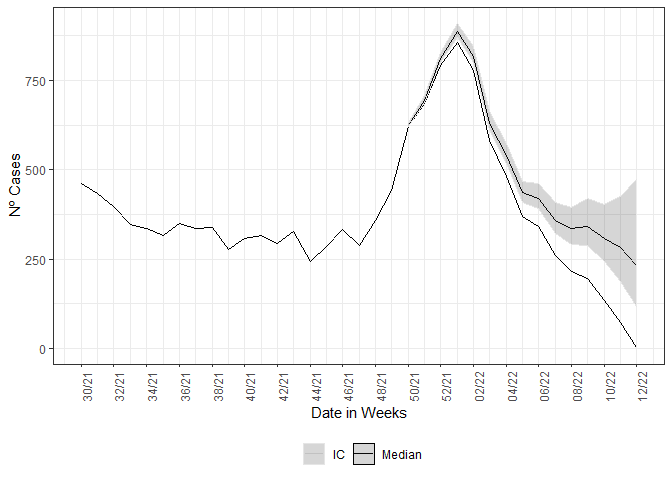
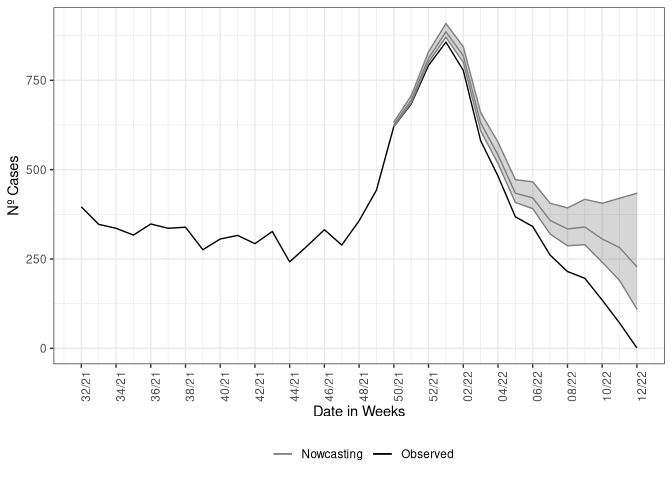
README recompiled

diff --git a/README.md b/README.md
@@ -2,21 +2,21 @@
 # nowcaster <a href='https://github.com/covid19br/nowcaster'><img src='man/figures/nowcaster.png' align="right" width="140" /></a> <a href='https://github.com/covid19br/nowcaster'><img src='man/figures/nowcaster_rev.png' align="right" width="140" /></a>
 
 `nowcaster` is a R package for “nowcasting” epidemiological time-series.
-Every single system of notification has a intrinsic delay, `nowcaster`
+Every single system of notification has an intrinsic delay, `nowcaster`
 can estimate how many counts of any epidemiological data of interest
-(*i.e.*, daily cases and deaths counts) by fitting a binomial negative
+(*i.e.*, daily cases and deaths counts) by fitting a negative binomial
 model to the time steps of delay between onset date of the event,
 (*i.e.*, date of first symptoms for cases or date of occurrence of
 death) and the date of report (*i.e.*, date of notification of the case
-or death)
+or death).
 
 `nowcaster` is based on the
 [`R-INLA`](https://becarioprecario.bitbucket.io/inla-gitbook/index.html)
 and
 [`INLA`](https://inla.r-inla-download.org/r-inla.org/doc/inla-manual/inla-manual.pdf)
 packages for “**I**ntegrated **N**ested **L**aplace **A**pproximation”
-algorithm to Bayesian inference. `INLA` is an alternative to others
-methods for Bayesian inference like **MCMC**, An introduction to `INLA`
+algorithm to Bayesian inference. `INLA` is a fast alternative to others
+methods for Bayesian inference like **MCMC**. An introduction to `INLA`
 can be found
 [here](https://becarioprecario.bitbucket.io/inla-gitbook/index.html).
 
@@ -42,8 +42,8 @@ library(nowcaster)
 
 When the package is loaded it disponibilize a LazyData file, `sariBH`,
 it is a annonymized records of Severe Acute Respiratory Illness notified
-in the city of Belo Horizonte, since March 2020. To load it basically
-write:
+in the city of Belo Horizonte, since March 2020 to April 2022. To load
+it basically write:
 
 ``` r
 data<-sragBH
@@ -64,49 +64,46 @@ head(data)
     ## 6 2020-04-07 2020-04-22          5        1     310620    74   70 - 79
 
 It is a data.frame with 7 variables and 65,404 observations. We will
-make use of only the first two columns, “DT\_SIN\_PRI” and “DT\_DIGITA”
-as well the column “Idade” to make age structured nowcasting.
+make use of only the first two columns, “DT_SIN_PRI” (date of onset
+symptoms) and “DT_DIGITA” (recording date) as well the column “Idade”
+(age in years) to make age structured nowcasting.
 
 ## Non-structured data
 
 Now we call the nowcasting function, it has by default the
 parametrization to take the data and estimate with a non-structured data
-form. The estimate fits a
-![NegBinom(\\lambda\_{\\tau}, t)](https://latex.codecogs.com/png.image?%5Cdpi%7B110%7D&space;%5Cbg_white&space;NegBinom%28%5Clambda_%7B%5Ctau%7D%2C%20t%29 "NegBinom(\lambda_{\tau}, t)")
-distribution to the cases count at time
-![t](https://latex.codecogs.com/png.image?%5Cdpi%7B110%7D&space;%5Cbg_white&space;t "t")
-with delay
-![\\lambda\_\\tau](https://latex.codecogs.com/png.image?%5Cdpi%7B110%7D&space;%5Cbg_white&space;%5Clambda_%5Ctau "\lambda_\tau").
-The distribution is parametrize through assuming a random effect to the
-delay
-![\\lambda\_\\tau](https://latex.codecogs.com/png.image?%5Cdpi%7B110%7D&space;%5Cbg_white&space;%5Clambda_%5Ctau "\lambda_\tau")
-distribution given by a
-![rw1](https://latex.codecogs.com/png.image?%5Cdpi%7B110%7D&space;%5Cbg_white&space;rw1 "rw1")
-and a random effect to the time
-![t](https://latex.codecogs.com/png.image?%5Cdpi%7B110%7D&space;%5Cbg_white&space;t "t")
-given by a
-![rw2](https://latex.codecogs.com/png.image?%5Cdpi%7B110%7D&space;%5Cbg_white&space;rw2 "rw2").
-So, the model is:
-
-![Y\_t \\sim  1 + rw2(t) + rw1(delay)](https://latex.codecogs.com/png.image?%5Cdpi%7B110%7D&space;%5Cbg_white&space;Y_t%20%5Csim%20%201%20%2B%20rw2%28t%29%20%2B%20rw1%28delay%29 "Y_t \sim  1 + rw2(t) + rw1(delay)")
+form. The estimate fits a negative binomial distribution,
+*N**e**g**B**i**n**o**m*(*λ*<sub>*t*, *d*</sub>,*ϕ*), to the cases count
+at time *t* with delay *d*, *ϕ* is the dispersion parameter. The rate
+*λ*<sub>*t*, *d*</sub> is then parameterized in a log-linear format by a
+constant term added by structured delay random effects and structured
+time random effects. Hence, the model isgiven by the following:
+*Y*<sub>*t*, *d*</sub> ∼ *N**e**g**B**i**n**o**m*(*λ*<sub>*t*, *d*</sub>,*ϕ*),  *t* = 1, 2, …, *T*,  *d* = 1, 2, …, *D*,
+log (*λ*<sub>*t*, *d*</sub>) = *α* + *β*<sub>*t*</sub> + *γ*<sub>*d*</sub>.
+where the intercept *α* follows is Gaussian distribution with a very
+large variance, *β*<sub>*t*</sub> is follows a second order random walk
+with precision *τ*<sub>*β*</sub>, *γ*<sub>*d*</sub> a first-order random
+walk with precision *τ*<sub>*γ*</sub>. The model is then completed by
+INLA default prior distributions for *ϕ*, *τ*<sub>*β*</sub>, and
+*τ*<sub>*γ*</sub>. See nbinom, rw1 and rw2 INLA help pages.
 
 The call of the function is straightforward, it simply needs a dataset
 as input, here the `LazyData` loaded in the namespace of the package.
 
 ``` r
-nowcasting_bh_no_age<-nowcasting_inla(dataset = data)
+nowcasting_bh_no_age <- nowcasting_inla(dataset = sragBH)
 head(nowcasting_bh_no_age$total)
 ```
 
-    ## # A tibble: 6 x 7
+    ## # A tibble: 6 × 7
     ##    Time dt_event   Median    LI    LS   LIb   LSb
     ##   <int> <date>      <dbl> <dbl> <dbl> <dbl> <dbl>
-    ## 1    17 2021-12-13    625  621   633    623   627
-    ## 2    18 2021-12-20    695  688.  707    692   699
-    ## 3    19 2021-12-27    812  800   830.   807   817
-    ## 4    20 2022-01-03    886  871   907    880   893
-    ## 5    21 2022-01-10    819  799.  844.   811   826
-    ## 6    22 2022-01-17    631  609   660    622   640
+    ## 1    17 2021-12-13    625   621  633    623   627
+    ## 2    18 2021-12-20    695   687  707    691   698
+    ## 3    19 2021-12-27    812   801  829    808   817
+    ## 4    20 2022-01-03    886   870  908    880   893
+    ## 5    21 2022-01-10    817   800  843.   811   826
+    ## 6    22 2022-01-17    631   609  660.   623   639
 
 This calling will return only the nowcasting estimate and its Confidence
 Interval (CI) for two different Credible interval, `LIb` and `LSb` are
@@ -119,11 +116,11 @@ returns on the third element of the output list the summarized data by
 week.
 
 ``` r
-nowcasting_bh_no_age <- nowcasting_inla(dataset = data, data.by.week = T)
+nowcasting_bh_no_age <- nowcasting_inla(dataset = sragBH, data.by.week = T)
 head(nowcasting_bh_no_age$dados)
 ```
 
-    ## # A tibble: 6 x 3
+    ## # A tibble: 6 × 3
     ##   DT_DIGITA  DT_SIN_PRI Delay
     ##   <date>     <date>     <dbl>
     ## 1 2021-01-04 2020-12-28     1
@@ -141,20 +138,20 @@ together.
 ``` r
 library(ggplot2)
 
-dados_by_week<-nowcasting_bh_no_age$dados %>% 
+dados_by_week <- nowcasting_bh_no_age$dados %>% 
   filter(DT_SIN_PRI >= (Sys.Date()-270)) %>% 
   group_by(DT_SIN_PRI) %>% 
   summarise(n = n())
 
 
 nowcasting_bh_no_age$total %>% 
-  ggplot(aes(x = dt_event, y = Median, col = 'Median'))+
+  ggplot(aes(x = dt_event, y = Median, col = 'Nowcasting')) +
+  geom_line(data = dados_by_week, aes(DT_SIN_PRI, y = n, col = 'Observed'))+
+  geom_ribbon(aes(ymin = LI, ymax = LS, col = NA), alpha = 0.2, show.legend = F)+
   geom_line()+
-  geom_line(data = dados_by_week, aes(DT_SIN_PRI, y = n))+
-  geom_ribbon(aes(ymin = LI, ymax = LS, col = 'IC'), alpha = 0.2)+
   theme_bw()+
-  theme(legend.position = "bottom", axis.text.x = element_text(angle = 90))+
-  scale_color_manual(values = c('grey90', 'black'), name = '')+
+  theme(legend.position = "bottom", axis.text.x = element_text(angle = 90)) +
+  scale_color_manual(values = c('grey50', 'black'), name = '')+
   scale_x_date(date_breaks = '2 weeks', date_labels = '%V/%y', name = 'Date in Weeks')+
   labs(x = '', y = 'Nº Cases')
 ```
@@ -163,49 +160,59 @@ nowcasting_bh_no_age$total %>%
 
 ## Structured data, Age
 
-For the structured data the `nowcasting_inla()` fits again a
-![NegBinom](https://latex.codecogs.com/png.image?%5Cdpi%7B110%7D&space;%5Cbg_white&space;NegBinom "NegBinom")
-distribution to the cases count at time
-![t](https://latex.codecogs.com/png.image?%5Cdpi%7B110%7D&space;%5Cbg_white&space;t "t")
-with delay
-![\\tau](https://latex.codecogs.com/png.image?%5Cdpi%7B110%7D&space;%5Cbg_white&space;%5Ctau "\tau").
+For the structured data the `nowcasting_inla()` fits again a Negative
+binomial distribution to the cases count at time *t* with delay *d*.
 Differently, from the non-structured case the model now gives random
 effects to the delay distribution and and time distribution by each of
-the age-class choosed by the user to break the data. The model has the
+the age-class chosen by the user to break the data. The model has the
 form now:
 
-![Y\_{t, Age} \\sim  1 + Age + rw2(t \| Age) + rw1(delay\|Age)](https://latex.codecogs.com/png.image?%5Cdpi%7B110%7D&space;%5Cbg_white&space;Y_%7Bt%2C%20Age%7D%20%5Csim%20%201%20%2B%20Age%20%2B%20rw2%28t%20%7C%20Age%29%20%2B%20rw1%28delay%7CAge%29 "Y_{t, Age} \sim  1 + Age + rw2(t | Age) + rw1(delay|Age)")
+$$Y\_{t,d,a} \\sim  NegBinom(\\lambda\_{t,d,a}, \\phi), \\quad t=1,2,\\ldots,T, \\quad d=1,2,\\ldots,D, $a=1,2,\\ldots,A$$
+$
+log (*λ*<sub>*t*, *d*, *a*</sub>) = *α*<sub>*a*</sub> + *β*<sub>*t*, *a*</sub> + *γ*<sub>*d*, *a*</sub>.
+where each age class, *a*, has an intercept *α*<sub>*a*</sub> following
+a Gaussian distribution with a very large variance, the time-age random
+effects, *β*<sub>*t*, *a*</sub>, follow a joint multivariate Gaussian
+distribution with a separable variance components an independent
+Gaussian term for the age classes with precision
+*τ*<sub>*a**g**e*, *β*</sub> and a second order random walk term for the
+time with precision *τ*<sub>*β*</sub>. Analogously, the delay-age random
+effects, *γ*<sub>*d*, *a*</sub>, follow a joint multivariate Gaussian
+distribution with a separable variance components an independent
+Gaussian term for the age classes with precision
+*τ*<sub>*a**g**e*, *γ*</sub> and a first order random walk term for the
+time with precision *τ*<sub>*γ*</sub>. The model is then completed by
+INLA default prior distributions for *ϕ*, *τ*<sub>*a**g**e*, *β*</sub>,
+*τ*<sub>*a**g**e*, *γ*</sub>, *τ*<sub>*β*</sub> and *τ*<sub>*γ*</sub>.
+See nbinom, iid, rw1 and rw2 INLA help pages.
 
-This new model gives to each of the age classes which the data was
-divide a model poundering the delay effects and time by each age class
-at time
-![t](https://latex.codecogs.com/png.image?%5Cdpi%7B110%7D&space;%5Cbg_white&space;t "t").
-Now the model needs a flag indicating which is the column on the dataset
-which will be used to break the data into age classes and which is the
-choosed option into which the age classes will be, this is given by the
-parameters `age_col` and `bins_age`. We pass three additional
-parameters, `data.by.week` to return the epidemiological curve out of
-window of action of nowcasting estimate and `return.age` to inform we
-desire a nowcasting result in two ways, the total aggregation estimate
-and the age-stratified estimate. The calling of the function has the
-following form:
+This new model corrects the delay taking into account the effects of age
+classes and the interactions of each age class between time and also
+delay. Now the model needs a flag indicating which is the column on the
+dataset which will be used to break the data into age classes and how
+the age classes will be split. This is given by the parameters `age_col`
+and `bins_age`. We pass three additional parameters, `data.by.week` to
+return the epidemiological curve out of window of action of nowcasting
+estimate and `return.age` to inform we desire a nowcasting result in two
+ways, the total aggregation estimate and the age-stratified estimate.
+The calling of the function has the following form:
 
 ``` r
-nowcasting_bh_age<-nowcasting_inla(dataset = data, 
+nowcasting_bh_age <- nowcasting_inla(dataset = sragBH, 
                                    bins_age = "10 years",
                                    data.by.week = T, 
                                    age_col = Idade)
 ```
 
 Each of the estimates returned by `nowcasting_inla` has the same form as
-in the non-structured case, on the nowcasting estimates it returns a
-data.frame with the Median and its CI by credibility of 50% (LIb and
-LSb) and 95% (LI and LS).
+in the non-structured case. On the nowcasting estimates, it returns a
+data.frame with the posterior edian and 50% and 95% credible intervals,
+(LIb and LSb) and (LI and LS) respectively.
 
 ``` r
 library(ggplot2)
 
-dados_by_week<-nowcasting_bh_age$dados %>% 
+dados_by_week <- nowcasting_bh_age$dados %>% 
   filter(DT_SIN_PRI >= (Sys.Date()-270)) %>% 
   group_by(DT_SIN_PRI) %>% 
   summarise(n = n())
@@ -231,11 +238,11 @@ We can compare the estimates by each of the strategies, we plot the two
 estimates together:
 
 ``` r
-nowcasting_bh_no_age$total$type<-"No Age structured"
-nowcasting_bh_age$total$type<-"Age structured"
+nowcasting_bh_no_age$total$type <- "No Age structured"
+nowcasting_bh_age$total$type <- "Age structured"
 
 
-nowcasting_bh_total<-nowcasting_bh_age$total %>% 
+nowcasting_bh_total <- nowcasting_bh_age$total %>% 
   full_join(nowcasting_bh_no_age$total)
 
 nowcasting_bh_total %>% 
@@ -263,53 +270,57 @@ is an empirical finding of this models.
 sessionInfo()
 ```
 
-    ## R version 4.1.2 (2021-11-01)
-    ## Platform: x86_64-w64-mingw32/x64 (64-bit)
-    ## Running under: Windows 10 x64 (build 19042)
+    ## R version 4.1.3 (2022-03-10)
+    ## Platform: x86_64-pc-linux-gnu (64-bit)
+    ## Running under: Manjaro Linux
     ## 
     ## Matrix products: default
+    ## BLAS:   /usr/lib/libblas.so.3.10.0
+    ## LAPACK: /usr/lib/liblapack.so.3.10.0
     ## 
     ## locale:
-    ## [1] LC_COLLATE=Portuguese_Brazil.1252  LC_CTYPE=Portuguese_Brazil.1252   
-    ## [3] LC_MONETARY=Portuguese_Brazil.1252 LC_NUMERIC=C                      
-    ## [5] LC_TIME=Portuguese_Brazil.1252    
+    ##  [1] LC_CTYPE=en_US.UTF-8       LC_NUMERIC=C              
+    ##  [3] LC_TIME=en_US.UTF-8        LC_COLLATE=en_US.UTF-8    
+    ##  [5] LC_MONETARY=en_US.UTF-8    LC_MESSAGES=en_US.UTF-8   
+    ##  [7] LC_PAPER=en_US.UTF-8       LC_NAME=C                 
+    ##  [9] LC_ADDRESS=C               LC_TELEPHONE=C            
+    ## [11] LC_MEASUREMENT=en_US.UTF-8 LC_IDENTIFICATION=C       
     ## 
     ## attached base packages:
     ## [1] parallel  stats     graphics  grDevices utils     datasets  methods  
     ## [8] base     
     ## 
     ## other attached packages:
-    ##  [1] INLA_21.11.22        sp_1.4-6             foreach_1.5.2       
-    ##  [4] Matrix_1.3-4         lubridate_1.8.0      forcats_0.5.1       
-    ##  [7] stringr_1.4.0        dplyr_1.0.8          purrr_0.3.4         
-    ## [10] readr_2.1.2          tidyr_1.2.0          tibble_3.1.6        
-    ## [13] ggplot2_3.3.5        tidyverse_1.3.1      nowcaster_0.0.0.9000
+    ##  [1] INLA_22.04.06   sp_1.4-6        foreach_1.5.2   Matrix_1.4-0   
+    ##  [5] lubridate_1.8.0 forcats_0.5.1   stringr_1.4.0   dplyr_1.0.9    
+    ##  [9] purrr_0.3.4     readr_2.1.2     tidyr_1.2.0     tibble_3.1.6   
+    ## [13] ggplot2_3.3.5   tidyverse_1.3.1 nowcaster_0.1.0
     ## 
     ## loaded via a namespace (and not attached):
     ##  [1] fs_1.5.2            usethis_2.1.5       devtools_2.4.3     
     ##  [4] httr_1.4.2          rprojroot_2.0.2     numDeriv_2016.8-1.1
-    ##  [7] tools_4.1.2         backports_1.4.1     utf8_1.2.2         
+    ##  [7] tools_4.1.3         backports_1.4.1     utf8_1.2.2         
     ## [10] R6_2.5.1            sn_2.0.1            DBI_1.1.2          
-    ## [13] colorspace_2.0-2    withr_2.5.0         mnormt_2.0.2       
+    ## [13] colorspace_2.0-3    withr_2.5.0         mnormt_2.0.2       
     ## [16] tidyselect_1.1.2    prettyunits_1.1.1   processx_3.5.2     
-    ## [19] curl_4.3.2          compiler_4.1.2      cli_3.1.1          
+    ## [19] curl_4.3.2          compiler_4.1.3      cli_3.3.0          
     ## [22] rvest_1.0.2         xml2_1.3.3          desc_1.4.0         
     ## [25] labeling_0.4.2      scales_1.1.1        callr_3.7.0        
-    ## [28] digest_0.6.29       rmarkdown_2.13      pkgconfig_2.0.3    
+    ## [28] digest_0.6.29       rmarkdown_2.11      pkgconfig_2.0.3    
     ## [31] htmltools_0.5.2     sessioninfo_1.2.2   highr_0.9          
-    ## [34] dbplyr_2.1.1        fastmap_1.1.0       rlang_1.0.1        
+    ## [34] dbplyr_2.1.1        fastmap_1.1.0       rlang_1.0.2        
     ## [37] readxl_1.3.1        rstudioapi_0.13     farver_2.1.0       
-    ## [40] generics_0.1.2      jsonlite_1.7.3      magrittr_2.0.2     
-    ## [43] Rcpp_1.0.7          munsell_0.5.0       fansi_1.0.2        
-    ## [46] lifecycle_1.0.1     stringi_1.7.6       yaml_2.2.2         
-    ## [49] brio_1.1.3          pkgbuild_1.3.1      grid_4.1.2         
+    ## [40] generics_0.1.2      jsonlite_1.7.3      magrittr_2.0.3     
+    ## [43] Rcpp_1.0.8          munsell_0.5.0       fansi_1.0.3        
+    ## [46] lifecycle_1.0.1     stringi_1.7.6       yaml_2.3.4         
+    ## [49] brio_1.1.3          pkgbuild_1.3.1      grid_4.1.3         
     ## [52] crayon_1.5.1        lattice_0.20-45     haven_2.4.3        
-    ## [55] splines_4.1.2       hms_1.1.1           tmvnsim_1.0-2      
-    ## [58] knitr_1.38          ps_1.6.0            pillar_1.7.0       
-    ## [61] stats4_4.1.2        codetools_0.2-18    pkgload_1.2.4      
-    ## [64] reprex_2.0.1        glue_1.6.1          evaluate_0.15      
-    ## [67] remotes_2.4.2       modelr_0.1.8        vctrs_0.3.8        
-    ## [70] tzdb_0.2.0          MatrixModels_0.5-0  testthat_3.1.3     
+    ## [55] splines_4.1.3       hms_1.1.1           tmvnsim_1.0-2      
+    ## [58] knitr_1.37          ps_1.6.0            pillar_1.7.0       
+    ## [61] stats4_4.1.3        codetools_0.2-18    pkgload_1.2.4      
+    ## [64] reprex_2.0.1        glue_1.6.2          evaluate_0.15      
+    ## [67] remotes_2.4.2       modelr_0.1.8        vctrs_0.4.1        
+    ## [70] tzdb_0.2.0          MatrixModels_0.5-0  testthat_3.1.2     
     ## [73] cellranger_1.1.0    gtable_0.3.0        assertthat_0.2.1   
     ## [76] cachem_1.0.6        xfun_0.29           broom_0.7.12       
-    ## [79] iterators_1.0.13    memoise_2.0.1       ellipsis_0.3.2
+    ## [79] iterators_1.0.14    memoise_2.0.1       ellipsis_0.3.2
